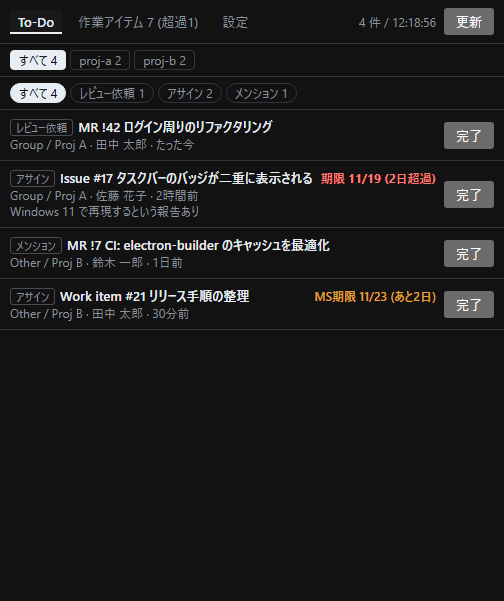
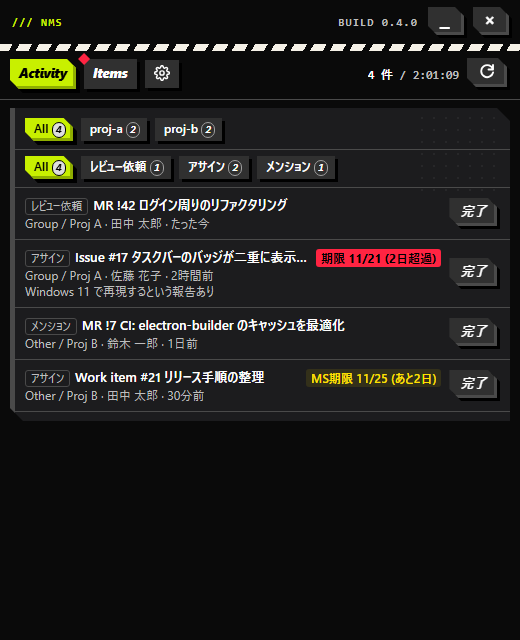
[Fix] 警告バッジを赤ひし形に、バッジ色を揃え、README スクショ更新（#28）
- 警告バッジを ! タイルから赤ひし形に変更し、タブ/チップの左上角に配置
- タスクバーバッジ色をグレー #555 から #e24329（アプリアイコンと同じ）に戻して不整合を解消
- README のスクショと alt を新 UI（Activity / Items）に更新

Changed region(s): [[0.0, 0.0, 1.0, 0.6589]]

diff --git a/scripts/gui-test.js b/scripts/gui-test.js
@@ -289,13 +289,13 @@ let m = null;
     return {
       label: tab.textContent, ariaLabel: tab.getAttribute('aria-label'), title: tab.title,
       count: badges.length, hidden: badge?.getAttribute('aria-hidden'),
-      symbol: badge ? getComputedStyle(badge, '::before').content : null,
+      color: badge ? getComputedStyle(badge).backgroundColor : null,
     };
   })()`;
   const checkAssignedWarning = async (description, warning) => {
     const tab = await evl(assignedTabState);
     const valid = warning
-      ? tab.count === 1 && tab.hidden === 'true' && tab.symbol === '"!"'
+      ? tab.count === 1 && tab.hidden === 'true' && tab.color === 'rgb(255, 36, 66)'
         && tab.ariaLabel === `Items (${warning})` && tab.title === warning
       : tab.count === 0 && tab.ariaLabel === null && tab.title === '';
     check(description, tab.label === 'Items' && valid, JSON.stringify(tab));
@@ -304,14 +304,11 @@ let m = null;
     const badge = chip.querySelector('.warning-count');
     const { width, height } = badge.getBoundingClientRect();
     const tabBadge = document.querySelector('#assignedTab .warning-count');
-    const samePaint = ['::before', '::after'].every(pseudo => {
-      const properties = ['backgroundColor', 'clipPath', 'content'];
-      if (pseudo === '::before') properties.push('color');
-      return properties.every(property => getComputedStyle(badge, pseudo)[property] === getComputedStyle(tabBadge, pseudo)[property]);
-    });
+    const bs = getComputedStyle(badge), ts = getComputedStyle(tabBadge);
+    const samePaint = bs.backgroundColor === ts.backgroundColor && bs.clipPath === ts.clipPath;
     return { value: chip.dataset.value, name: chip.getAttribute('aria-label'), title: chip.title,
       valid: chip.tagName === 'BUTTON' && chip.querySelectorAll('.warning-count').length === 1
-        && badge.getAttribute('aria-hidden') === 'true' && width === 16 && height === 16 && samePaint };
+        && badge.getAttribute('aria-hidden') === 'true' && width === 12 && height === 12 && samePaint };
   })`);
   const titlebarState = `(() => {
     const drag = document.querySelector('.window-drag');
@@ -346,7 +343,7 @@ let m = null;
   await checkDarkTheme('作業アイテム');
   const projectWarnings = await chipWarnings('#assignedRepos');
   const typeWarnings = await chipWarnings('#assignedTypes');
-  check('期限超過があるプロジェクトと All にだけ同じ 16px の警告を付ける',
+  check('期限超過があるプロジェクトと All にだけ同じ赤ひし形の警告を付ける',
     projectWarnings.map(chip => chip.value).join('|') === 'all|group/proj-a'
       && projectWarnings.every(chip => chip.valid && chip.name.endsWith('(期限超過 1 件)'))
       && projectWarnings[0].title === '期限超過 1 件' && projectWarnings[1].title === 'group/proj-a · 期限超過 1 件',
@@ -763,8 +760,8 @@ let m = null;
       const clippedIcon = element.id === 'refresh' && (!icon || icon.width === 0 ||
         icon.left < rect.left || icon.right > rect.right || icon.top < rect.top || icon.bottom > rect.bottom);
       const badge = element.querySelector('.warning-count')?.getBoundingClientRect();
-      const clippedBadge = badge && (badge.width < 14 || badge.width > 18 ||
-        badge.left - 2 < rect.left || badge.right + 2 > rect.right || badge.top - 1 < rect.top || badge.bottom + 2 > rect.bottom);
+      // 警告バッジはタブ/チップの左上角に意図的にはみ出して配置するため、サイズだけを検証する
+      const clippedBadge = badge && (badge.width < 10 || badge.width > 14);
       return outside || clippedTab || clippedIcon || clippedBadge ? [element.id || element.textContent] : [];
     });
   })()`;

diff --git a/src/ui.css b/src/ui.css
@@ -216,18 +216,12 @@ li > .trail:empty { display: none; }
   color: #000000; background: var(--accent-danger);
 }
 .warning-count {
-  position: relative; display: inline-block; flex: none; width: 16px; height: 16px;
+  position: absolute;
+  top: -6px; left: -6px;
+  width: 12px; height: 12px;
+  background: var(--accent-danger);
+  clip-path: polygon(50% 0, 100% 50%, 50% 100%, 0 50%);
   filter: drop-shadow(2px 2px 0 var(--shadow));
-}
-.chip .warning-count { margin-inline-start: 5px; vertical-align: bottom; }
-.warning-count::before {
-  content: '!'; position: absolute; inset: 0; border-radius: 3px;
-  clip-path: polygon(0 0, 12px 0, 100% 4px, 100% 100%, 4px 100%, 0 12px);
-  color: var(--text); background: var(--charcoal); text-align: center; font: 900 13px/16px "Segoe UI", sans-serif;
-}
-.warning-count::after {
-  content: ''; position: absolute; top: -1px; left: -2px; width: 7px; height: 7px;
-  background: var(--accent-danger); clip-path: polygon(50% 0, 100% 50%, 50% 100%, 0 50%);
 }
 /* 期限: 通常は控えめ、間近は黄系、超過は赤＋太字。 */
 .due { color: var(--muted); font-variant-numeric: tabular-nums; font-weight: 600; }

diff --git a/src/renderer.js b/src/renderer.js
@@ -264,7 +264,7 @@ function drawBadge(count) {
   const o = document.createElement('canvas');
   o.width = o.height = 16;
   let g = o.getContext('2d');
-  g.fillStyle = '#555';
+  g.fillStyle = '#e24329';
   g.beginPath(); g.arc(8, 8, 8, 0, Math.PI * 2); g.fill();
   g.fillStyle = '#fff';
   g.font = `bold ${label.length > 2 ? 7 : label.length > 1 ? 9 : 11}px Segoe UI`;
@@ -274,7 +274,7 @@ function drawBadge(count) {
   const t = document.createElement('canvas');
   t.width = t.height = 32;
   g = t.getContext('2d');
-  g.fillStyle = count > 0 ? '#555' : '#888';
+  g.fillStyle = count > 0 ? '#e24329' : '#888';
   g.beginPath(); g.arc(16, 16, 15, 0, Math.PI * 2); g.fill();
   if (count > 0) {
     g.fillStyle = '#fff';
